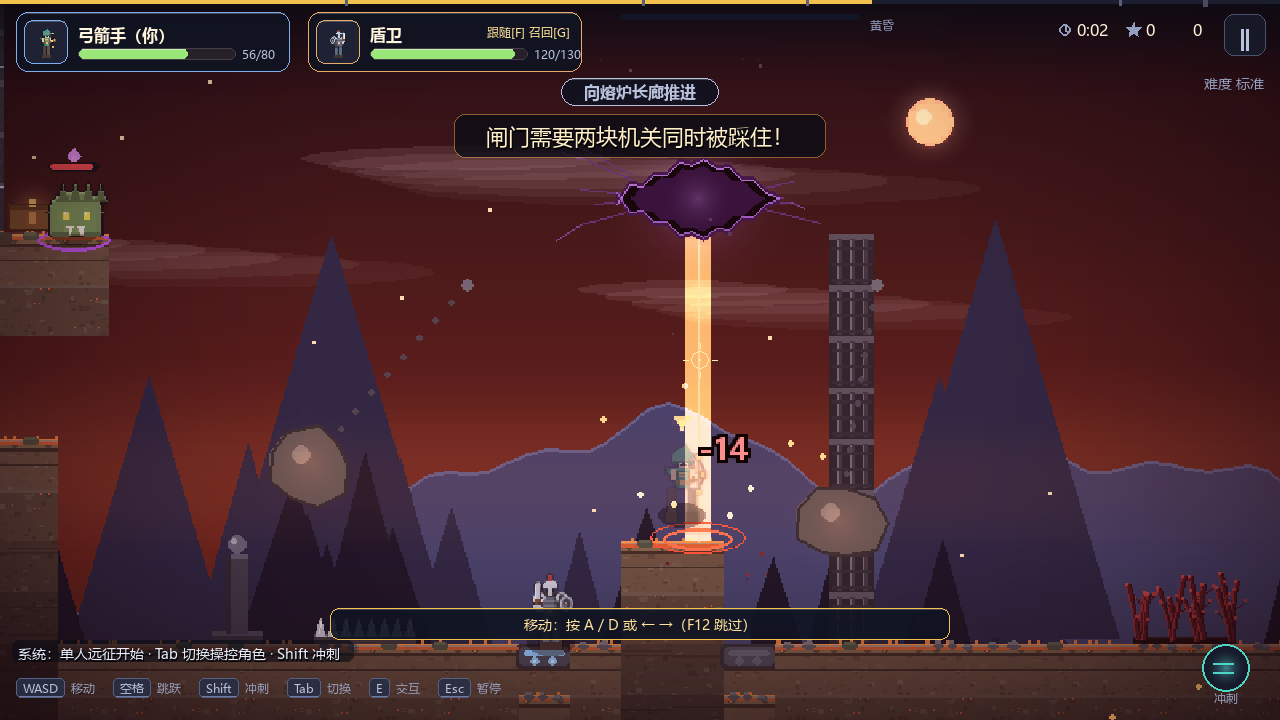
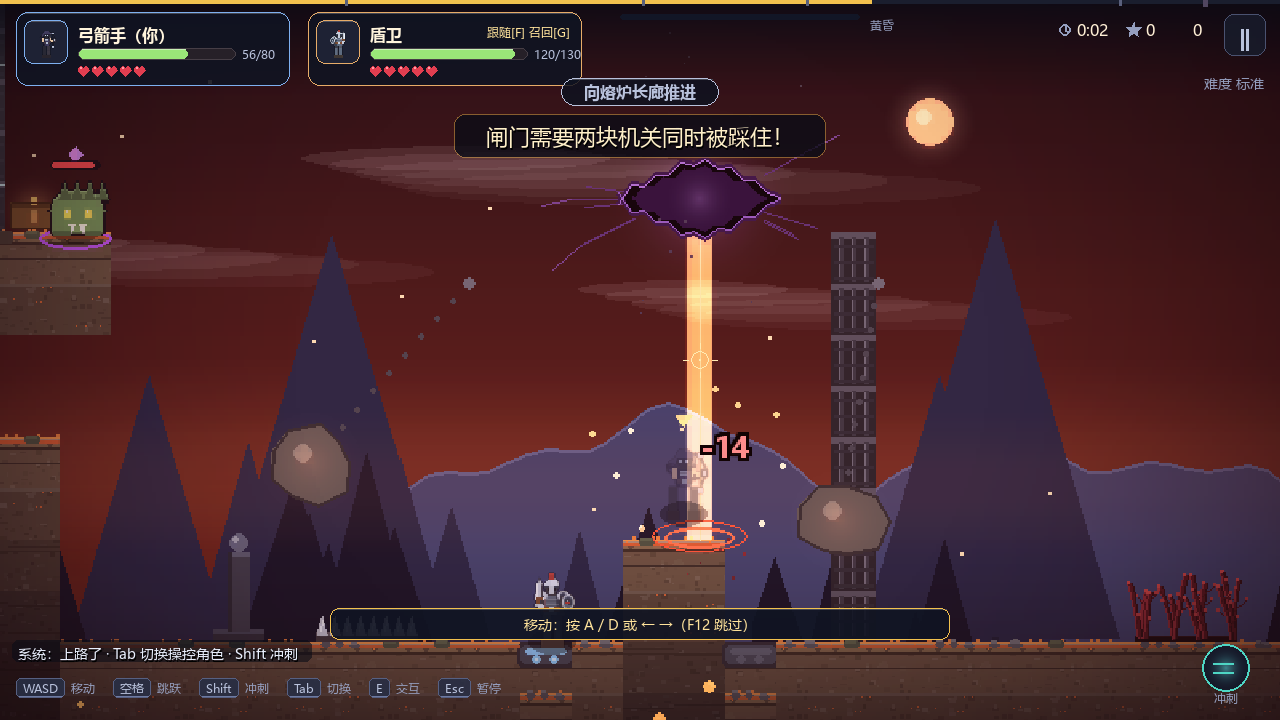
README 插图更新 + 移除未使用的 res/ 素材（22MB）
插图（原图是旧版：菜单还写着「单人远征」，血条下也没有红心）：
- menu.png / forge.png 用当前版本重新生成（「独自上路」「上路了」、队伍生命红心）
- 新增 boss.png：终章 Boss 树精，半血狂暴状态 + 血条 + 扔蛋

素材：
- res/ 9 个 PNG（22.1MB）源码完全未引用（旧版瓦片素材，现已全程序化绘制）→ 取消跟踪，
  文件保留在本地；仓库体积 23.9MB → 1.8MB
- README 修正「没有任何外部素材文件」的表述：丧钟是 CC0 真实录音（assets/sfx/bell.wav），
  缺失时回退合成

文件数 49 → 40

diff --git a/README.md b/README.md
@@ -1,10 +1,12 @@
 # 暮色之前 · Before Dusk
 
 一款 2D 横版动作闯关游戏：**弓箭手 × 盾卫**双角色协作，横穿暮色森林、岩浆裂隙与熔炉长廊，
-在终点祭坛点燃传送门。全部美术与音频都在运行时程序化生成 —— 没有任何外部素材文件。
+在终点祭坛点燃传送门。美术与音频全部在运行时程序化生成——唯一的外部素材是失败丧钟的一段
+CC0 真实钟声录音（`assets/sfx/bell.wav`，来源与许可见 `assets/sfx/CREDITS.txt`），缺失时会自动回退到合成钟声。
 
 ![主菜单](docs/screenshots/menu.png)
-![游戏画面](docs/screenshots/forge.png)
+![游戏画面：熔炉长廊与双人闸门](docs/screenshots/forge.png)
+![终章 Boss 树精（半血狂暴）](docs/screenshots/boss.png)
 
 ---
 
@@ -145,7 +147,7 @@ python main.py
 ## 技术亮点
 
 - **全程序化音频**（`audio.py`）：numpy 实时合成 4 段循环配乐（菜单 / 探索 / 战斗 / Boss）与 23 种音效，
-  含 ADSR 包络、失谐 pad、多抽头混响、软限幅；打包后无需任何音频文件。
+  含 ADSR 包络、失谐 pad、多抽头混响、软限幅。唯一的外部素材是丧钟录音（CC0），缺文件时自动回退合成。
 - **全程序化美术**（`sprites.py` / `renderer.py`）：像素角色自动描边 + 顶光/底影，9 个动作帧；
   地形按"暴露深度"分层着色并带草叶与装饰；岩浆/深坑/传送门/摆锤均为代码绘制。
 - **镜头与特效**（`fx.py`）：800×450 低分辨率渲染再放大（像素更饱满）、平滑跟随、
